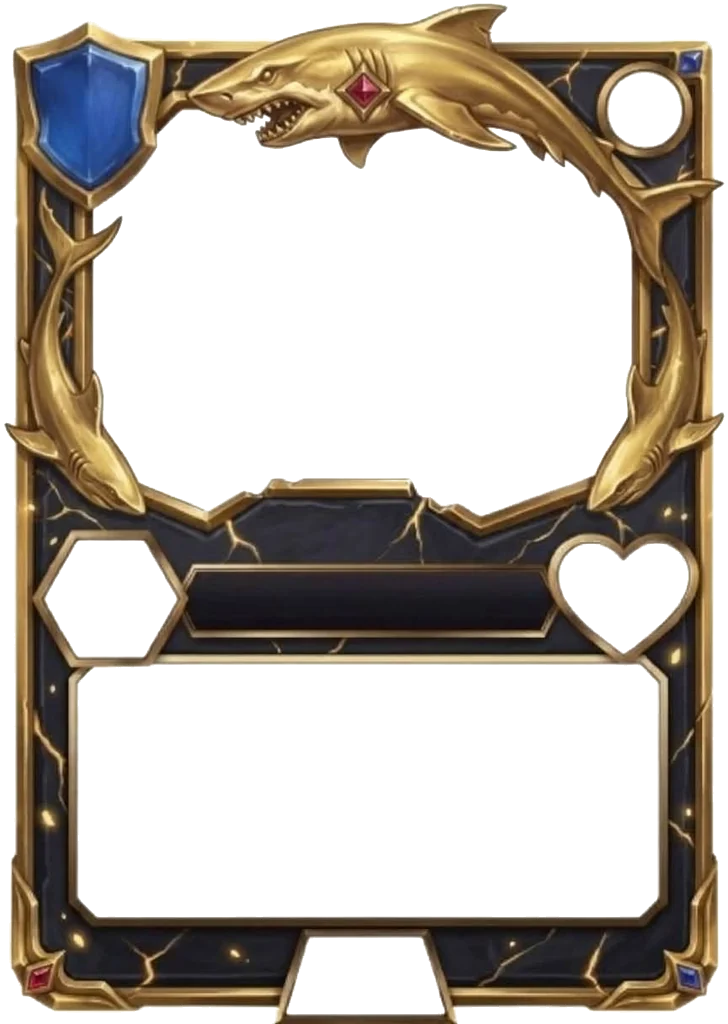
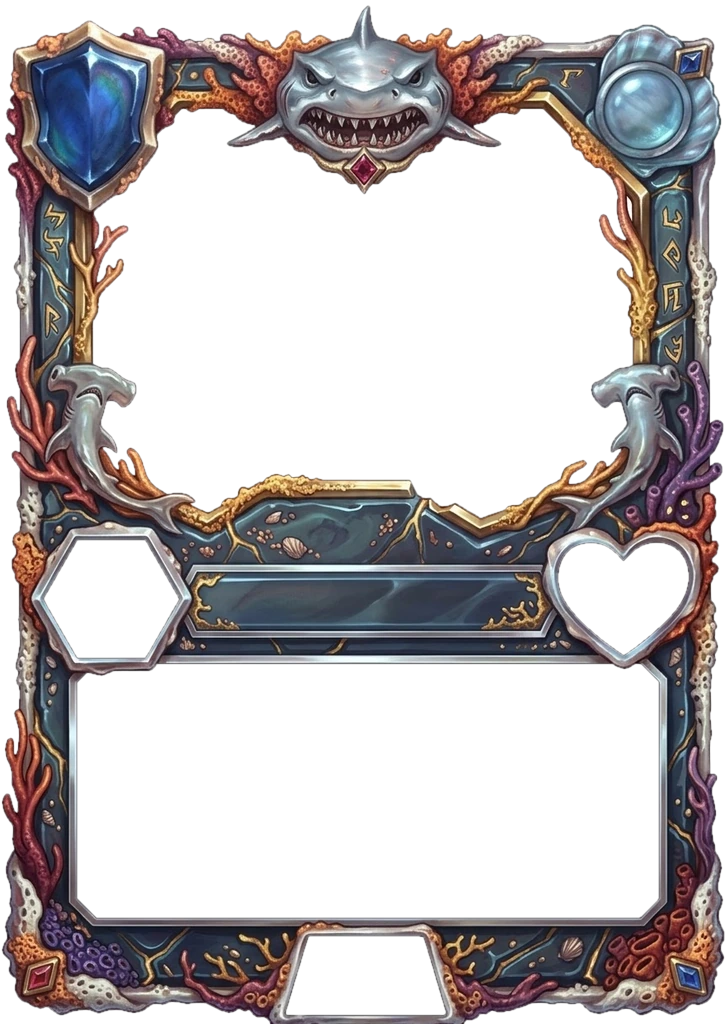
New legendary frames: Acidic, Radioactive, Dinosaurs, Sharks, Eels, Vampires, Demons (#193)
The supplied card templates, with the art window, text box, gems and surround cut out so the
card art and text show through. Radioactive's dark text box is opened to the light text panel
(a faint trace of its green cracks kept over it). Eels legendaries now use their own frame.

Claude-Session: https://claude.ai/code/session_01K62jKbwR1q4er12esREiiv

diff --git a/src/ui/shared.js b/src/ui/shared.js
@@ -202,7 +202,7 @@ function sigilHTML(card) {
 // painted-<type>-glow.png, a soft inner glow around the picture window filled with the faction colour.
 // Colours: grey stone for minions, blue for spells, lighter blue for Quick Plays, red for traps.
 const LEGEND_FRAMES = new Set(['Acidic', 'Aliens', 'Bees', 'Demons', 'Dinosaurs', 'Divine', 'Fungus', 'Ghosts', 'Lycanthropes',
-  'Plants', 'Radioactive', 'Robots', 'Sharks', 'Ultraterrestrials', 'Vampires', 'Void', 'Zombies', 'Ice Age']);
+  'Plants', 'Radioactive', 'Robots', 'Sharks', 'Ultraterrestrials', 'Vampires', 'Void', 'Zombies', 'Ice Age', 'Eels']);
 function shardCardHTML(card, { attack, health, cost, costClass, extra, small, hpClass, label, faction, incomplete, artOver = null }) {
   const type = card.type === 'minion' ? 'minion' : card.type === 'trap' ? 'trap' : 'spell';
   const frame = type === 'spell' && card.quickPlay ? 'quickplay' : type;
@@ -211,8 +211,8 @@ function shardCardHTML(card, { attack, health, cost, costClass, extra, small, hp
   const legend = !!card.legendary;
   // Each faction's legendary minions have their own painted frame (Dragons and fusions use the gold one).
   const own = legend && type === 'minion' && !card.fusion && LEGEND_FRAMES.has(card.faction);
-  // ?v=2: the Zombies frame was replaced; the tag makes browsers fetch the fixed picture.
-  const frameSrc = own ? `art/frames/legendary-minion-${fslug(card.faction)}.webp?v=2`
+  // ?v=3: new frames for Acidic, Radioactive, Dinosaurs, Sharks, Eels, Vampires and Demons; the tag makes browsers fetch them.
+  const frameSrc = own ? `art/frames/legendary-minion-${fslug(card.faction)}.webp?v=3`
     : legend ? `art/frames/legendary-${type}.png` : `art/frames/painted-${frame}.png`;
   return `
     <div class="big-card shard t-${card.type} ${frame === 'quickplay' ? 'qp' : ''} f-${faction} ${card.fusion ? 'f-fusion' : ''} ${incomplete.length ? 'is-pending' : ''} ${legend ? 'legend' : ''}"${own ? ` style="--foil-frame: url('${frameSrc}')"` : ''}>
